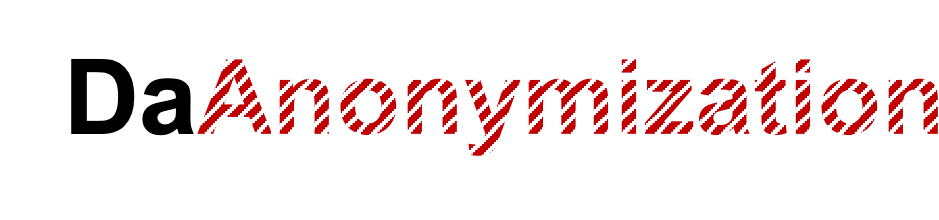
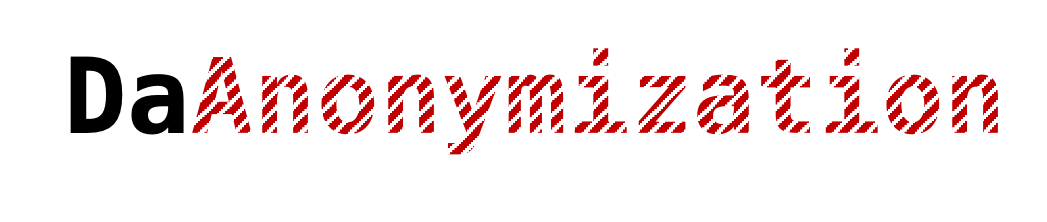
added header image

Changed region(s): [[0.0618, 0.2182, 1.0, 0.7091], [0.5559, 0.2182, 0.5868, 0.3]]

diff --git a/README.rst b/README.rst
@@ -1,9 +1,7 @@
+====================================================
 .. figure:: docs/imgs/header.png
     :width: 200px
     :align: center
-
-====================================================
-DaAnonymization - Anonymization tool for Danish text
 ====================================================
 
 
